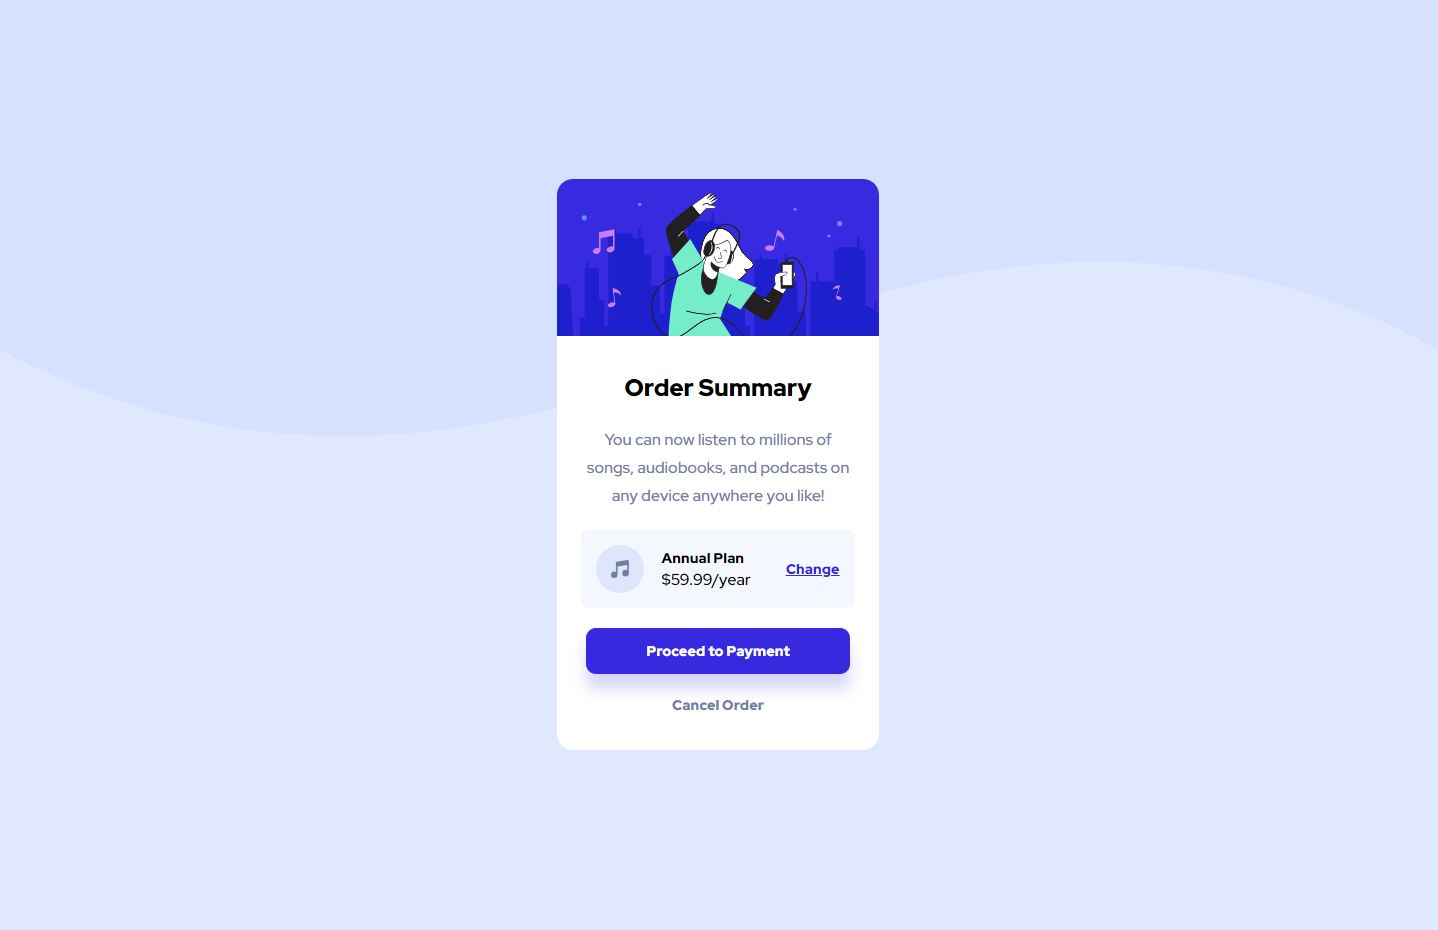
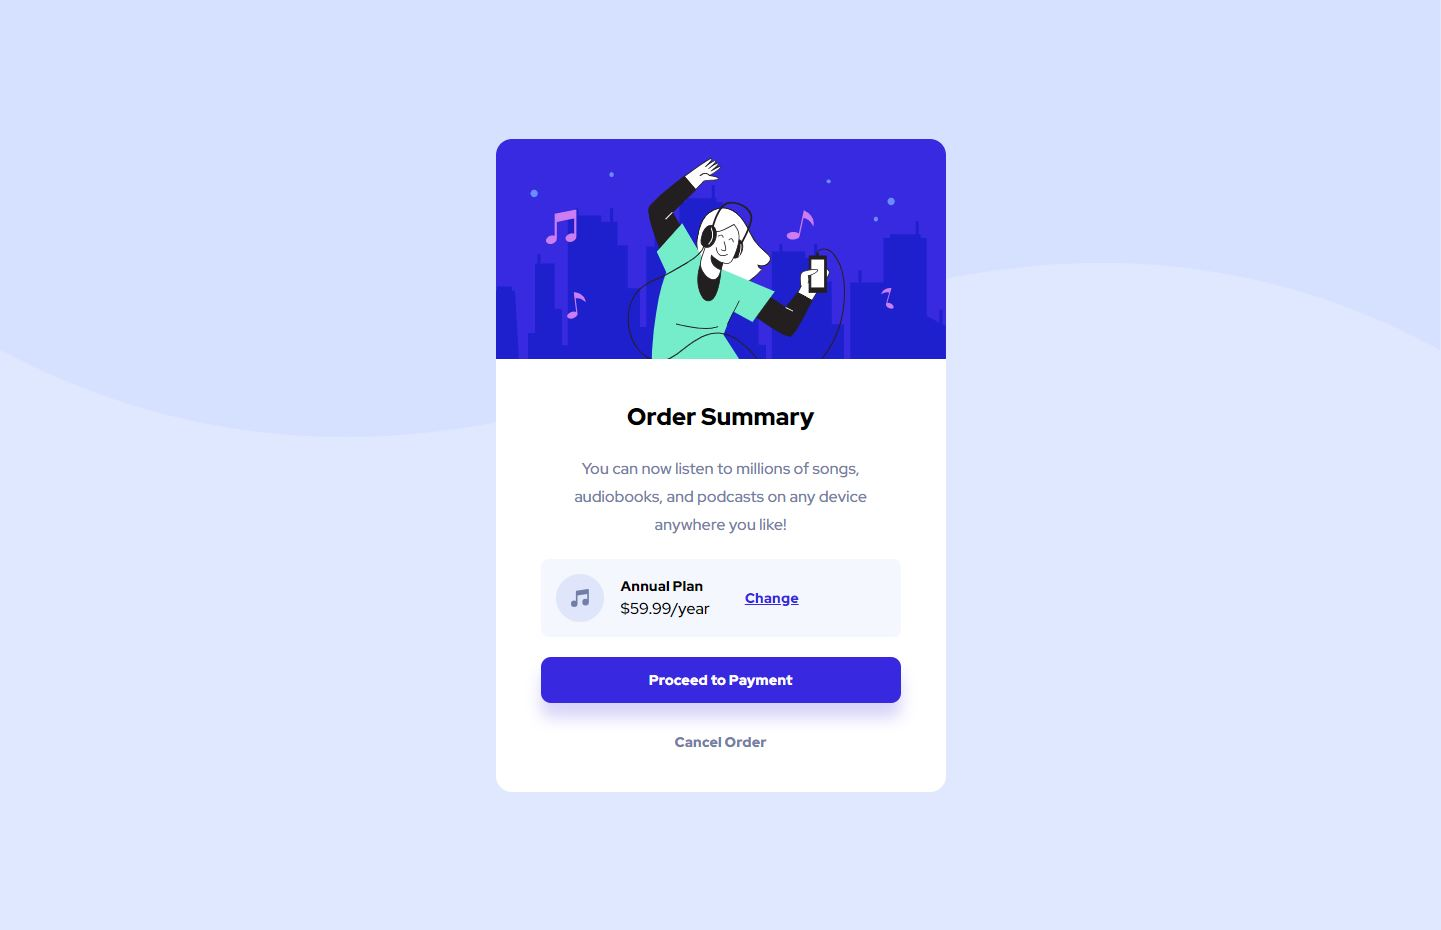
updated CSS and screenshot for desktop

Changed region(s): [[0.3366, 0.1247, 0.6732, 0.8731], [0.5508, 0.5925, 0.5814, 0.6237]]

diff --git a/style.css b/style.css
@@ -169,4 +169,26 @@ button:hover {
         background-image: url(./images/pattern-background-desktop.svg); 
         background-repeat: no-repeat;
     }
+
+    .order__image  {
+        width: 450px !important;
+    }
+
+    .order__copy {
+        width: 80%;
+        margin: auto;
+    }
+
+    .order__header {
+        margin-top: 2.5rem;
+    }
+
+    .order__button {
+        width: 100%;
+    }
+
+    .order__cancel {
+        margin-top: .5rem;
+        margin-bottom: 2.5rem;
+    }
 } 
